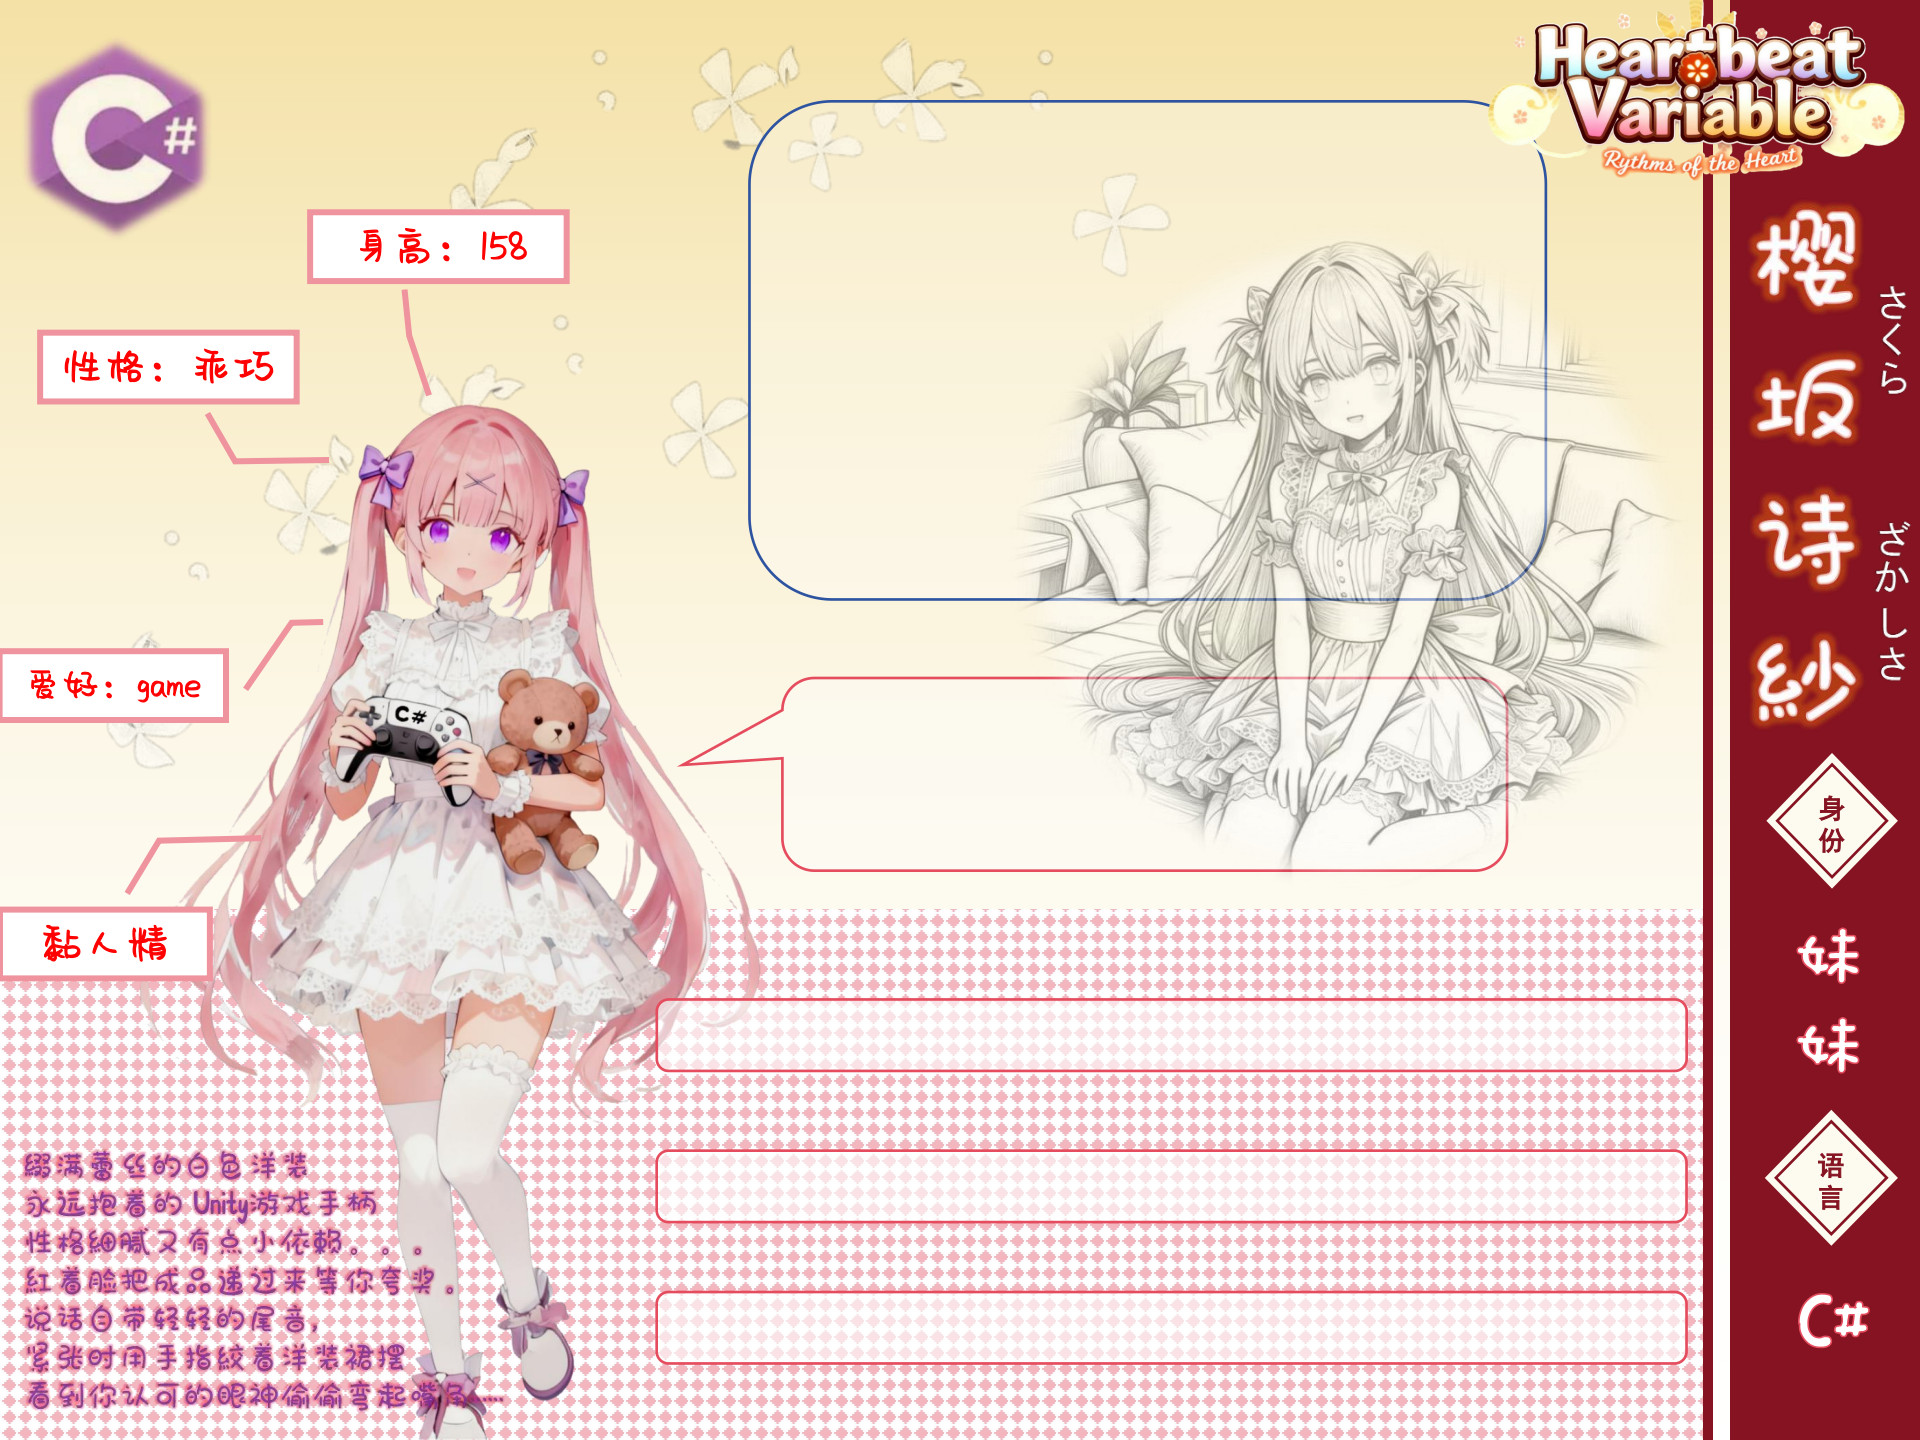
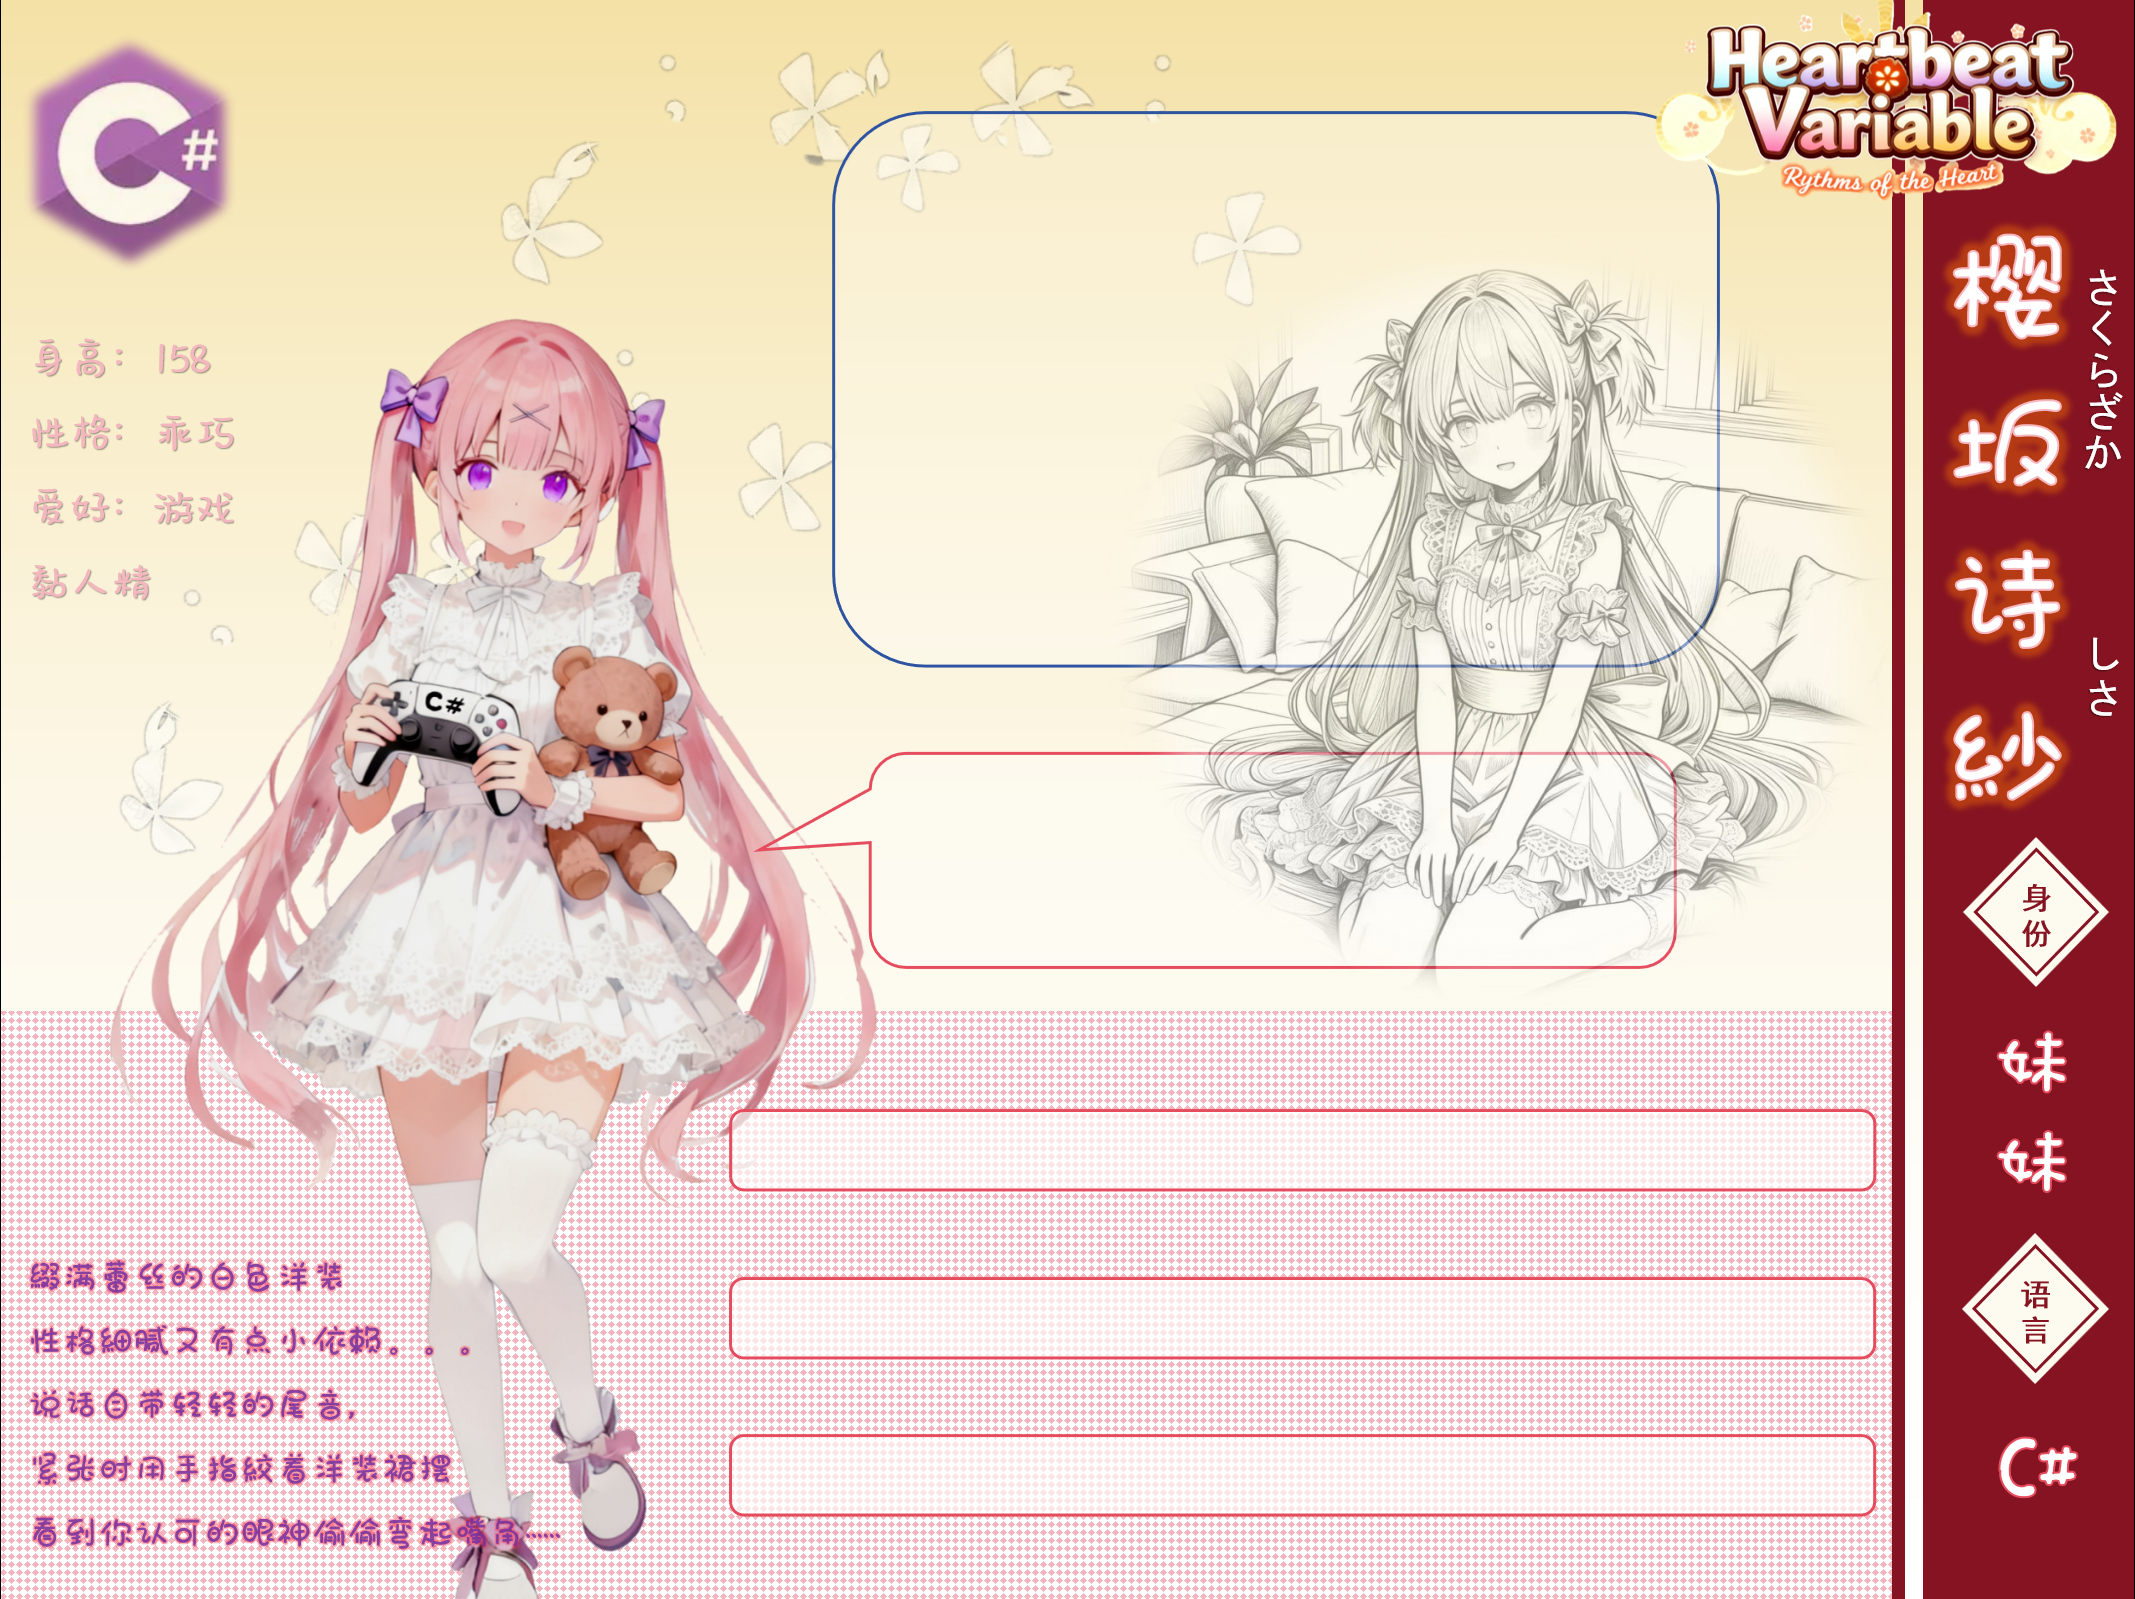
修改了文本框位置

diff --git a/page1.html b/page1.html
@@ -30,10 +30,10 @@
         /* 透明代码文本框 */
         .transparent-code-container {
             position: absolute;
-            left: 40.00%;
-            top: 8.50%;
-            width: 38.00%;
-            height: 28.00%;
+            left: 41.30%;
+            top: 9.69%;
+            width: 36.83%;
+            height: 29.08%;
             max-width: 700px;
             max-height: 400px;
             min-width: 400px;
@@ -47,14 +47,14 @@
         /* 对话框文本框 */
         .dialog-container {
             position: absolute;
-            left: 43.75%;
-            top: 45.61%;
-            width: 32.13%;
-            height: 26.34%;
+            left: 43.00%;
+            top: 49.40%;
+            width: 33.50%;
+            height: 9.39%;
             max-width: 600px;
-            max-height: 350px;
+            max-height: 200px; /* 因为高度较小，可以适当调整最大高度 */
             min-width: 350px;
-            min-height: 200px;
+            min-height: 80px;  /* 根据新高度调整最小高度 */
             background: transparent;
             border-radius: 12px;
             overflow: hidden;
@@ -471,7 +471,7 @@
                 
                 // 获取图片实际显示尺寸
                 const img = new Image();
-                img.src = 'images/back_Csharp.png';
+                img.src = 'images/back_Csharp.png'; 
                 img.onload = function() {
                     const imgWidth = img.width;
                     const imgHeight = img.height;
@@ -489,18 +489,18 @@
                     const imgLeft = (screenWidth - actualImgWidth) / 2;
                     const imgTop = (screenHeight - actualImgHeight) / 2;
                     
-                    // 重新计算代码文本框位置 (第一个)
-                    const boxLeft = imgLeft + (800 * scaleRatio);
-                    const boxTop = imgTop + (150 * scaleRatio);
-                    const boxWidth = 700 * scaleRatio;
-                    const boxHeight = 400 * scaleRatio;
+                    // 根据比例计算代码文本框位置 (41.30%, 9.69%, 36.83%, 29.08%)
+                    const boxLeft = imgLeft + (actualImgWidth * 0.4130);
+                    const boxTop = imgTop + (actualImgHeight * 0.0969);
+                    const boxWidth = actualImgWidth * 0.3683;
+                    const boxHeight = actualImgHeight * 0.2908;
                     
-                    // 重新计算对话框文本框位置 (第二个)
-                    const dialogBoxLeft = imgLeft + (840 * scaleRatio);  // 43.75% 对应 840px
-                    const dialogBoxTop = imgTop + (700 * scaleRatio);    // 48.61% 对应 700px
-                    const dialogBoxWidth = 616 * scaleRatio;            // 32.13% 对应 616px
-                    const dialogBoxHeight = 380 * scaleRatio;           // 26.34% 对应 380px
-                    
+                    // 根据比例计算对话框文本框位置 (43.00%, 49.40%, 33.50%, 9.39%)
+                    const dialogBoxLeft = imgLeft + (actualImgWidth * 0.4300); // 43.00%
+                    const dialogBoxTop = imgTop + (actualImgHeight * 0.4940);  // 49.40%
+                    const dialogBoxWidth = actualImgWidth * 0.3350;            // 33.50%
+                    const dialogBoxHeight = actualImgHeight * 0.0939;          // 9.39%
+                                
                     // 应用计算后的位置到第一个文本框
                     container.style.position = 'absolute';
                     container.style.left = boxLeft + 'px';

diff --git a/page2.html b/page2.html
@@ -30,10 +30,10 @@
         /* 透明代码文本框 */
         .transparent-code-container {
             position: absolute;
-            left: 40.00%;
-            top: 8.50%;
-            width: 38.00%;
-            height: 28.00%;
+            left: 41.30%;
+            top: 9.69%;
+            width: 36.83%;
+            height: 29.08%;
             max-width: 700px;
             max-height: 400px;
             min-width: 400px;
@@ -47,14 +47,14 @@
         /* 对话框文本框 */
         .dialog-container {
             position: absolute;
-            left: 43.75%;
-            top: 45.61%;
-            width: 32.13%;
-            height: 26.34%;
+            left: 43.00%;
+            top: 49.40%;
+            width: 33.50%;
+            height: 9.39%;
             max-width: 600px;
-            max-height: 350px;
+            max-height: 200px; /* 因为高度较小，可以适当调整最大高度 */
             min-width: 350px;
-            min-height: 200px;
+            min-height: 80px;  /* 根据新高度调整最小高度 */
             background: transparent;
             border-radius: 12px;
             overflow: hidden;
@@ -447,7 +447,7 @@
                 
                 // 获取图片实际显示尺寸
                 const img = new Image();
-                img.src = 'images/back_C.png';
+                img.src = 'images/back_C.png'; 
                 img.onload = function() {
                     const imgWidth = img.width;
                     const imgHeight = img.height;
@@ -465,17 +465,17 @@
                     const imgLeft = (screenWidth - actualImgWidth) / 2;
                     const imgTop = (screenHeight - actualImgHeight) / 2;
                     
-                    // 重新计算代码文本框位置 (第一个)
-                    const boxLeft = imgLeft + (800 * scaleRatio);
-                    const boxTop = imgTop + (150 * scaleRatio);
-                    const boxWidth = 700 * scaleRatio;
-                    const boxHeight = 400 * scaleRatio;
+                    // 根据比例计算代码文本框位置 (41.30%, 9.69%, 36.83%, 29.08%)
+                    const boxLeft = imgLeft + (actualImgWidth * 0.4130);
+                    const boxTop = imgTop + (actualImgHeight * 0.0969);
+                    const boxWidth = actualImgWidth * 0.3683;
+                    const boxHeight = actualImgHeight * 0.2908;
                     
-                    // 重新计算对话框文本框位置 (第二个)
-                    const dialogBoxLeft = imgLeft + (840 * scaleRatio);  // 43.75% 对应 840px
-                    const dialogBoxTop = imgTop + (700 * scaleRatio);    // 48.61% 对应 700px
-                    const dialogBoxWidth = 616 * scaleRatio;            // 32.13% 对应 616px
-                    const dialogBoxHeight = 380 * scaleRatio;           // 26.34% 对应 380px
+                    // 根据比例计算对话框文本框位置 (43.00%, 49.40%, 33.50%, 9.39%)
+                    const dialogBoxLeft = imgLeft + (actualImgWidth * 0.4300); // 43.00%
+                    const dialogBoxTop = imgTop + (actualImgHeight * 0.4940);  // 49.40%
+                    const dialogBoxWidth = actualImgWidth * 0.3350;            // 33.50%
+                    const dialogBoxHeight = actualImgHeight * 0.0939;          // 9.39%
                     
                     // 应用计算后的位置到第一个文本框
                     container.style.position = 'absolute';
